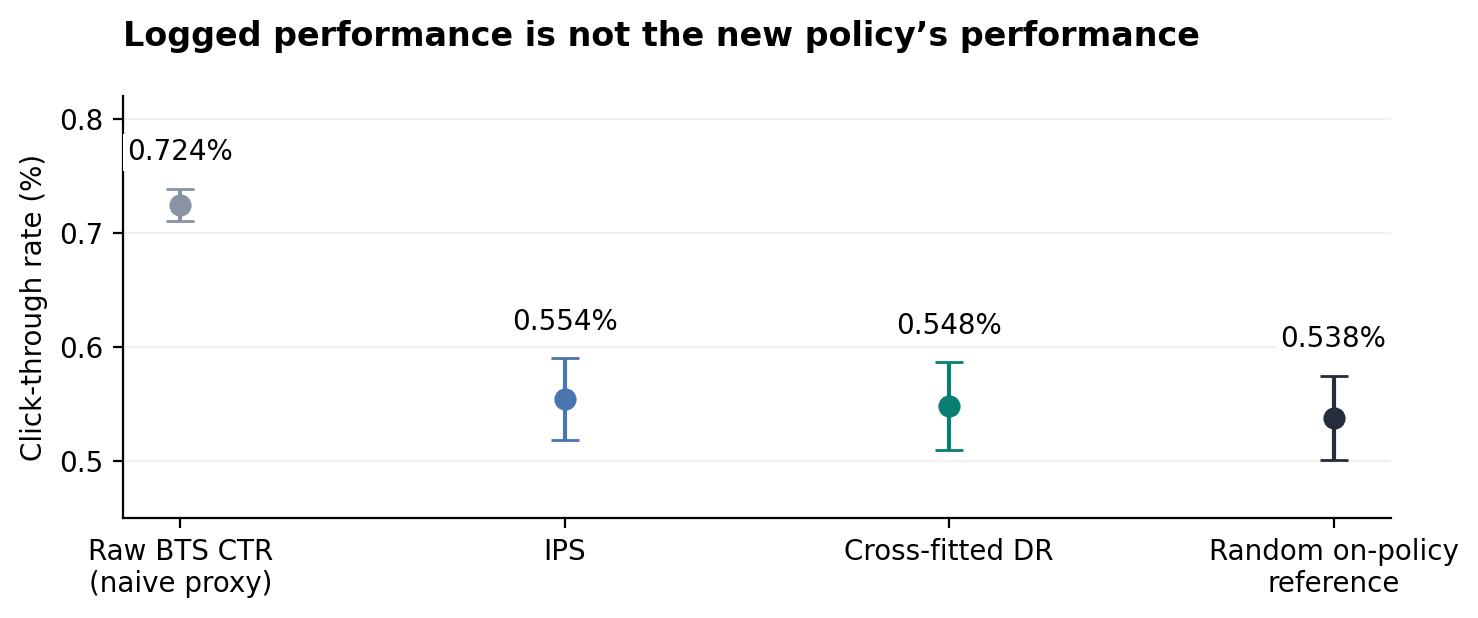
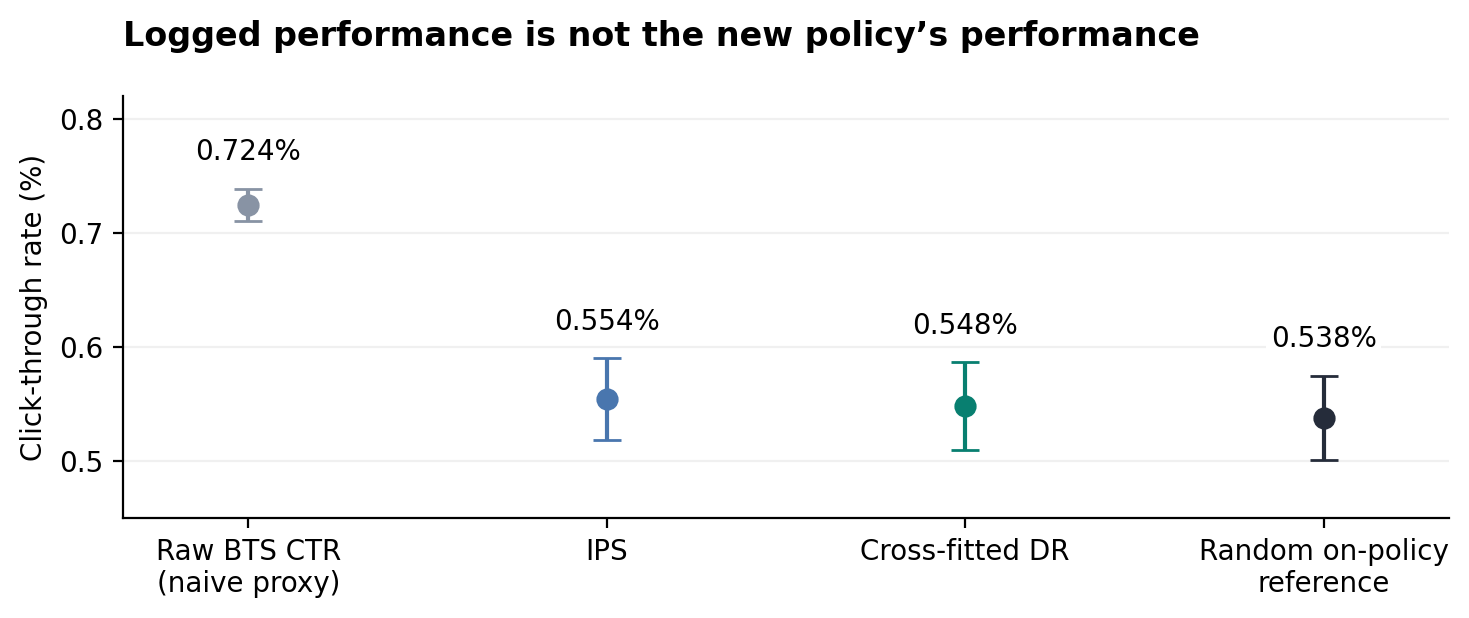
Keep chart value label clear of vertical axis

diff --git a/obd_research_2026_10_30/analyze_results.py b/obd_research_2026_10_30/analyze_results.py
@@ -61,6 +61,8 @@ def main():
         ax.annotate(f'{center:.3f}%',(i,ci[1]),xytext=(0,8),textcoords='offset points',ha='center',va='bottom',fontsize=10,
                     bbox=dict(facecolor='white',edgecolor='none',pad=1.5))
     ax.set_xticks(range(4),names);ax.set_ylabel('Click-through rate (%)');ax.set_ylim(.45,.82)
+    # Keep label backgrounds clear of the vertical axis at both plot edges.
+    ax.set_xlim(-.35,3.35)
     ax.set_title('Logged performance is not the new policy’s performance',loc='left',pad=18)
     ax.grid(axis='y',alpha=.18);fig.tight_layout();save(fig,'01_obd_counterfactual')
     # Figure 2: selected candidate, full family correction, reference uncertainty visible.
